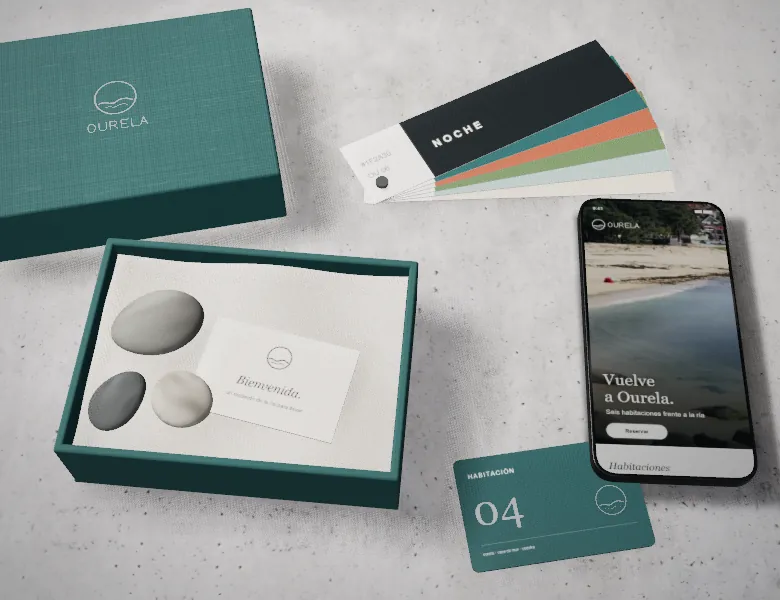
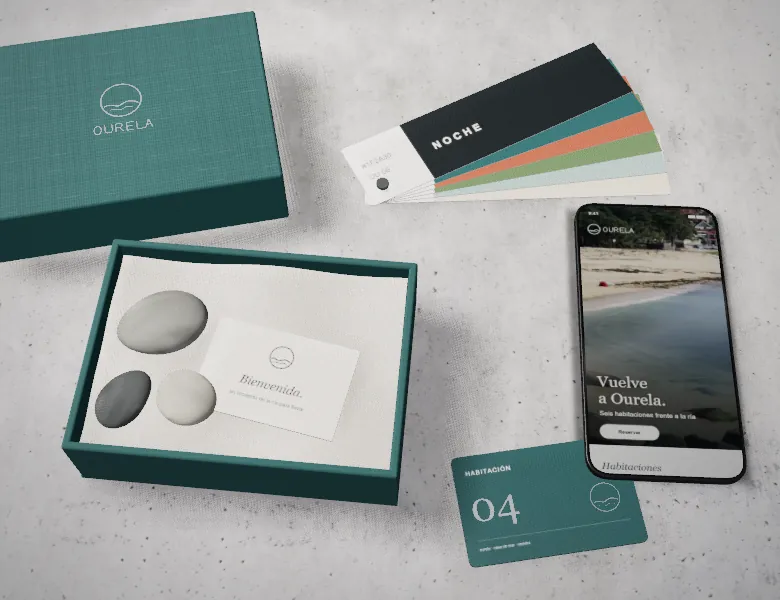
Identity scene: a slimmer phone in a satin frame, its shadow close under it; loading stills redone

diff --git a/src/components/Identity/StationeryScene.tsx b/src/components/Identity/StationeryScene.tsx
@@ -1060,7 +1060,8 @@ async function build(host: HTMLDivElement, onReady: () => void, paused: { curren
     screenMap.offset.y = 1 - 993 / H;
 
     const phone = new THREE.Group();
-    const body = new THREE.Mesh(new RoundedBoxGeometry(0.76, 0.08, 1.56, 4, 0.11), new THREE.MeshStandardMaterial({ color: "#3a3e43", metalness: phoneGpu ? 0.2 : 0.85, roughness: 0.32 }));
+    const body = new THREE.Mesh(new RoundedBoxGeometry(0.76, 0.08, 1.56, 4, 0.11), // (a dark satin frame, not a mirror: its bright mirrored edges read as a gap of light under it, as if it hovered)
+      new THREE.MeshStandardMaterial({ color: "#26292d", metalness: phoneGpu ? 0.15 : 0.45, roughness: 0.42 }));
     body.position.y = 0.04;
     // the glass, the screen and its sheen cut with rounded corners like the body's, so no square corner
     // pokes out past its round edge (its picture mapped edge to edge, as on a plane)
@@ -1087,22 +1088,22 @@ async function build(host: HTMLDivElement, onReady: () => void, paused: { curren
     // as its thinness allowed, nearly square), its edges eased with a small bevel, so glass and screen sit
     // in it with even, concentric corners as on a real phone
     {
-      const bodyGeo = new THREE.ExtrudeGeometry(roundedShape(0.76, 1.56, 0.11), { depth: 0.064, bevelEnabled: true, bevelThickness: 0.008, bevelSize: 0.008, bevelSegments: 4, curveSegments: 16 });
+      const bodyGeo = new THREE.ExtrudeGeometry(roundedShape(0.76, 1.56, 0.11), { depth: 0.036, bevelEnabled: true, bevelThickness: 0.007, bevelSize: 0.008, bevelSegments: 4, curveSegments: 16 }); // (a slim phone: thick, its shadow fell far from it and it seemed to float)
       bodyGeo.rotateX(-Math.PI / 2);
-      bodyGeo.translate(0, 0.008, 0);
+      bodyGeo.translate(0, 0.007, 0);
       body.geometry.dispose();
       (body as THREE.Mesh).geometry = bodyGeo;
       body.position.y = 0;
     }
     const glass = new THREE.Mesh(rounded(0.755, 1.555, 0.108), new THREE.MeshPhysicalMaterial({ color: "#0b0c0d", roughness: 0.08, clearcoat: 1 }));
     glass.rotation.x = -Math.PI / 2;
-    glass.position.y = 0.0805;
+    glass.position.y = 0.0505;
     const screen = new THREE.Mesh(
       rounded(0.738, 1.538, 0.1),
       new THREE.MeshStandardMaterial({ color: "#000", emissive: "#ffffff", emissiveMap: screenMap, emissiveIntensity: 0.95, roughness: 0.12, metalness: 0 }),
     );
     screen.rotation.x = -Math.PI / 2;
-    screen.position.y = 0.081;
+    screen.position.y = 0.051;
     // the glass over the screen takes the window's light as a soft sheen across it
     const sheen = (() => {
       const [sc, sx] = canvas(256, 512);
@@ -1117,15 +1118,15 @@ async function build(host: HTMLDivElement, onReady: () => void, paused: { curren
     })();
     const gloss = new THREE.Mesh(rounded(0.755, 1.555, 0.108), new THREE.MeshBasicMaterial({ map: sheen, transparent: true, depthWrite: false }));
     gloss.rotation.x = -Math.PI / 2;
-    gloss.position.y = 0.0825;
+    gloss.position.y = 0.0525;
     gloss.userData.flat = true;
     // (the thickest piece, so the darkest foot: a second, firmer contact under it, or it seemed to hover)
     const foot = contact(0.74, 1.54);
     (foot.material as THREE.MeshBasicMaterial).opacity = 1;
     // and a wider, softer shadow cast away from the window (down and to the right), as a thick object throws
-    const cast = contact(1.0, 1.75);
-    (cast.material as THREE.MeshBasicMaterial).opacity = 0.7;
-    cast.position.set(0.09, 0.0012, 0.1);
+    const cast = contact(0.92, 1.68);
+    (cast.material as THREE.MeshBasicMaterial).opacity = 0.85;
+    cast.position.set(0.025, 0.0012, 0.03);
     phone.add(body, glass, screen, gloss, cast, contact(0.8, 1.6), foot);
     // (laid nearly square to the table's edge, a little in from the frame's side, where the lens skews least)
     phone.position.set(1.32, 0, 0.12);

diff --git a/src/pages/About/ServicesShowcase.tsx b/src/pages/About/ServicesShowcase.tsx
@@ -41,7 +41,7 @@ if (typeof window !== "undefined") {
 // at once while the live scene loads behind it, which then fades in over it
 type Example ={ img?: string; video?: string; frame?: string; scene?: keyof typeof SCENES; poster?: string; seen: string[]; link?: string };
 
-const POSTER_V = 8;
+const POSTER_V = 9;
 
 // the way into the full example, where an example has one
 const OPEN: Record<string, string> = { es: "Ver el plano en 3D", en: "See the floor plan in 3D", fr: "Voir le plan en 3D", de: "Den Grundriss in 3D ansehen" };
